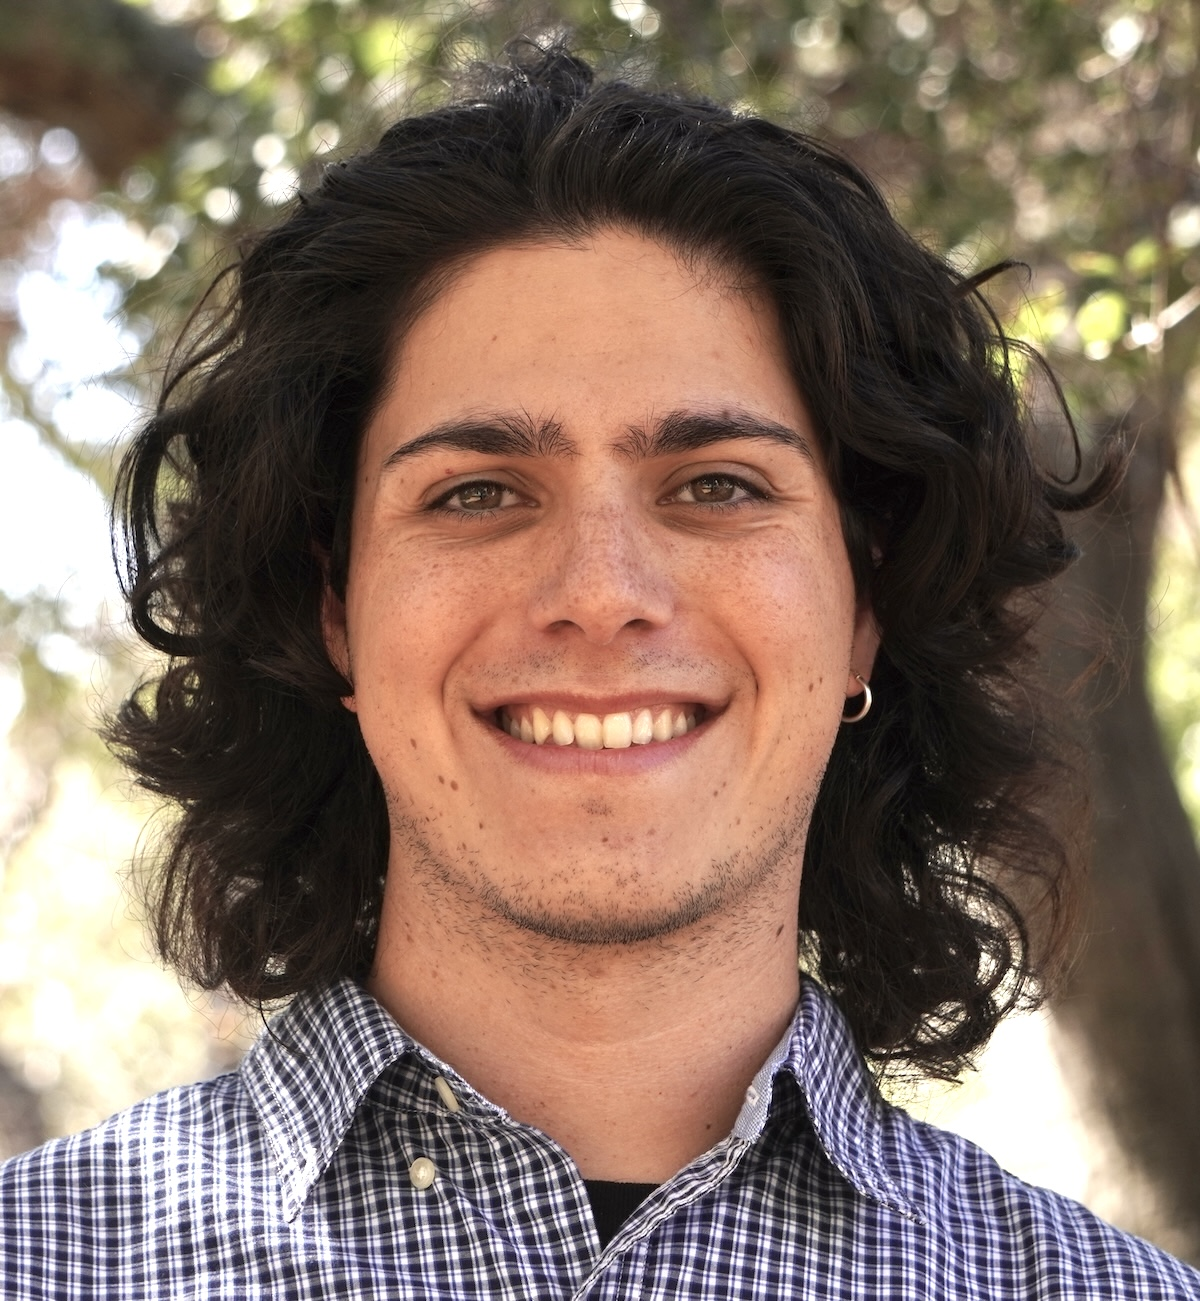
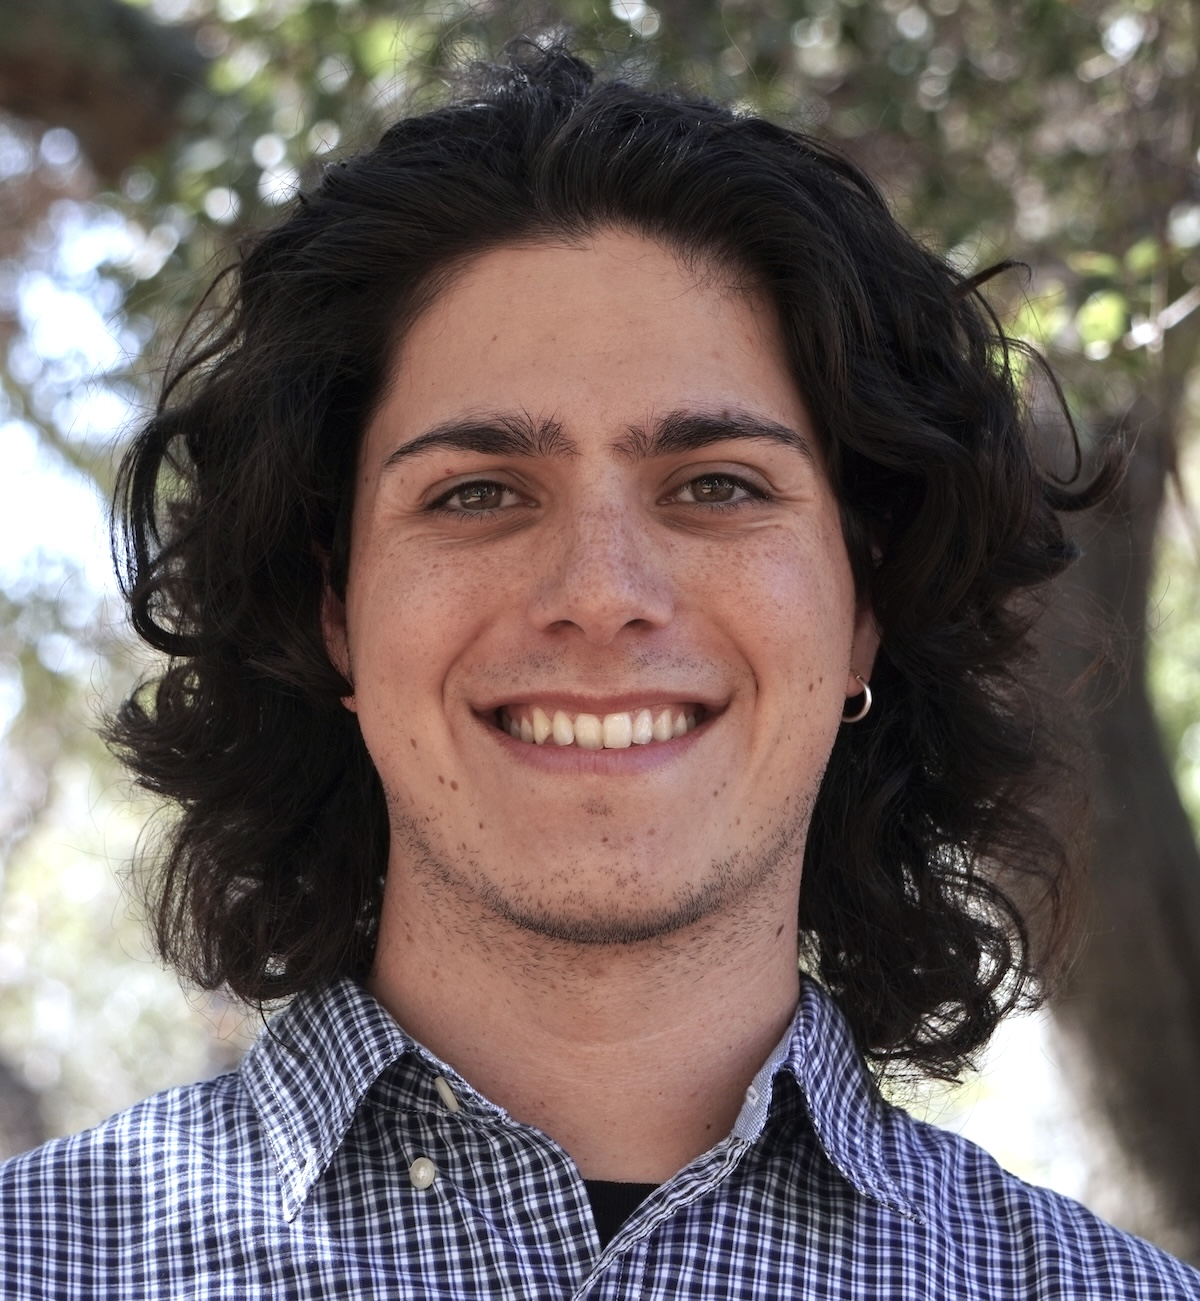
colder photo and larger

diff --git a/css/main.css b/css/main.css
@@ -104,8 +104,8 @@ body {
 }
 
 .home-portrait {
-  width: 200px;
-  height: 200px;
+  width: 250px;
+  height: 250px;
   object-fit: cover;
   border-radius: 8px;
   border: 1px solid var(--border);
